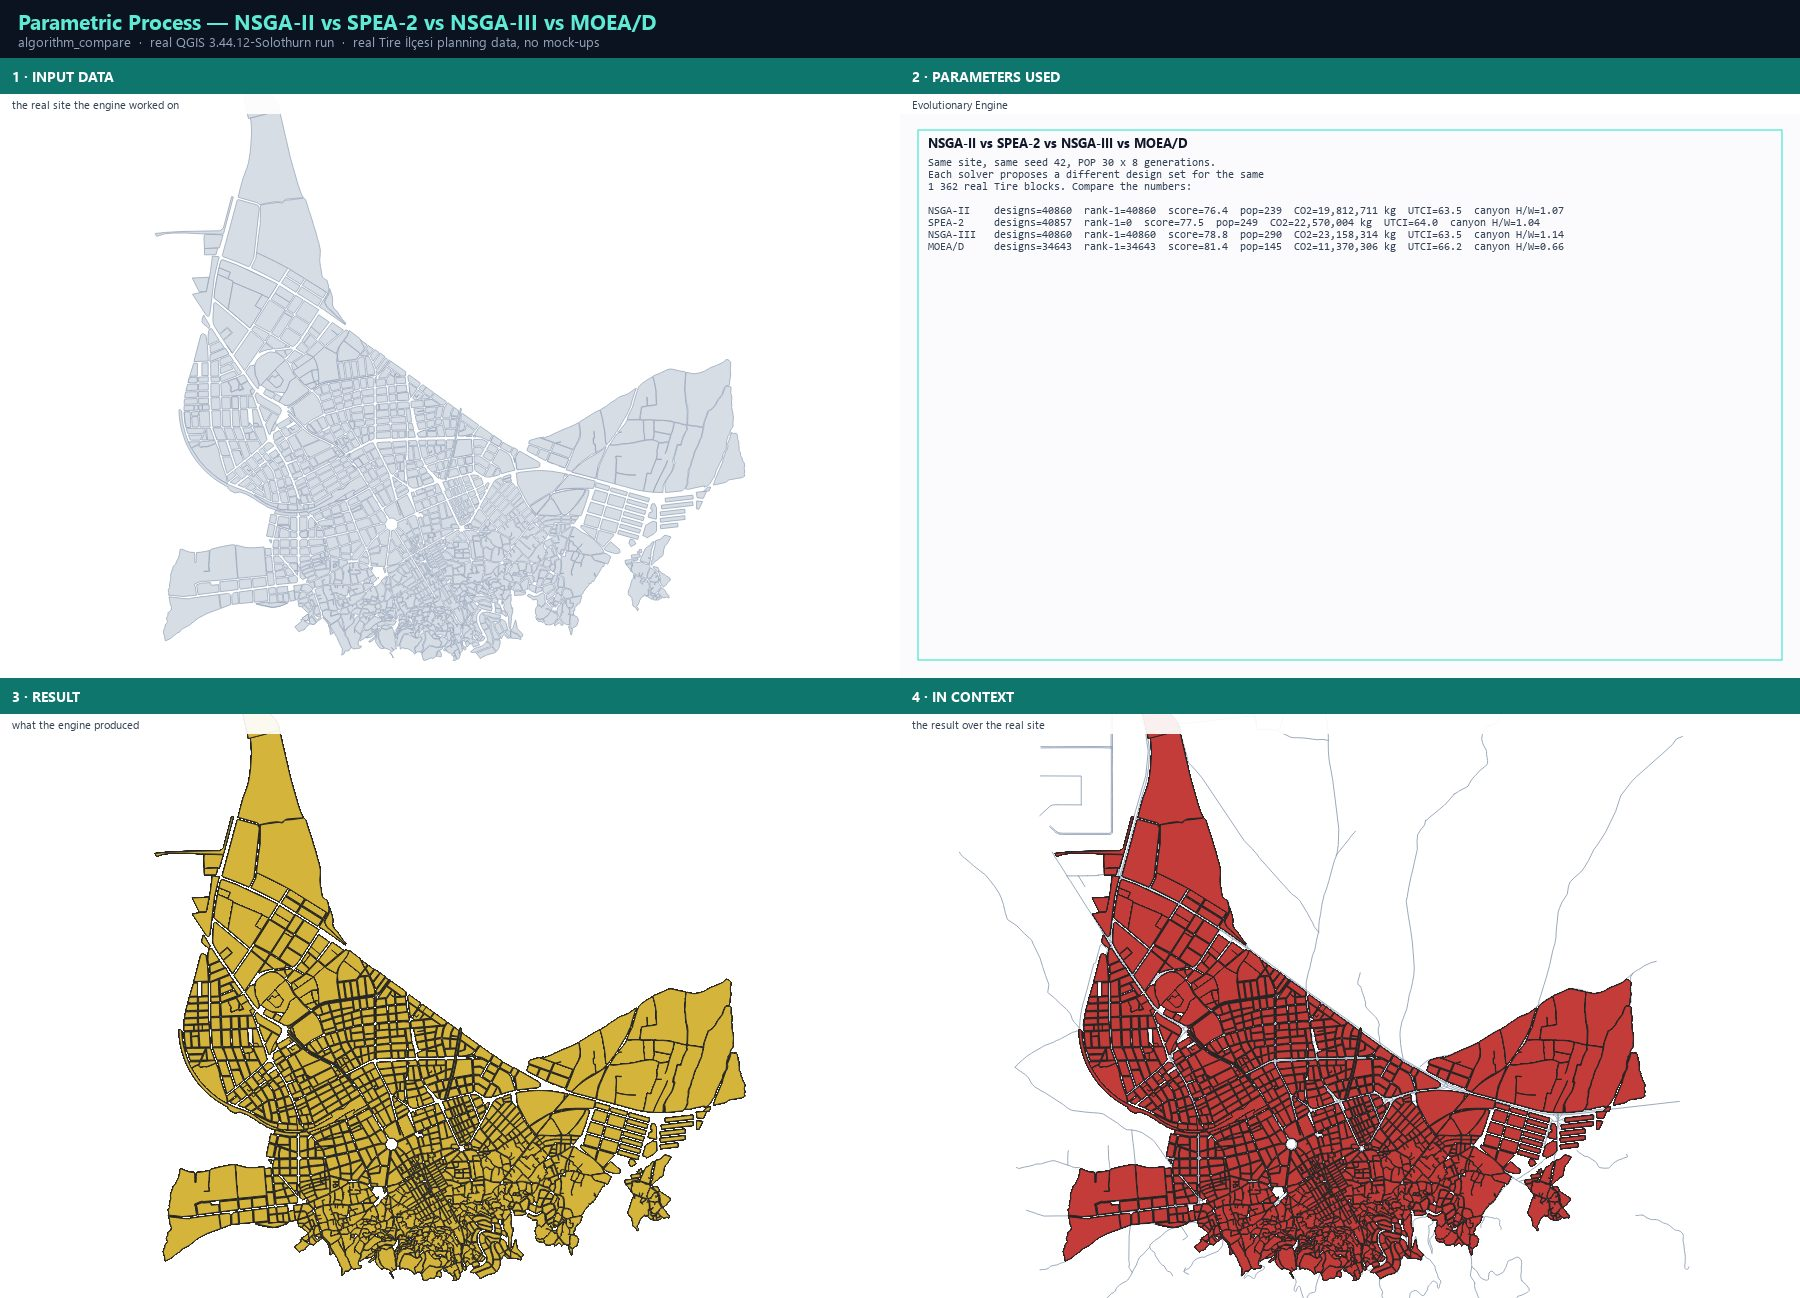
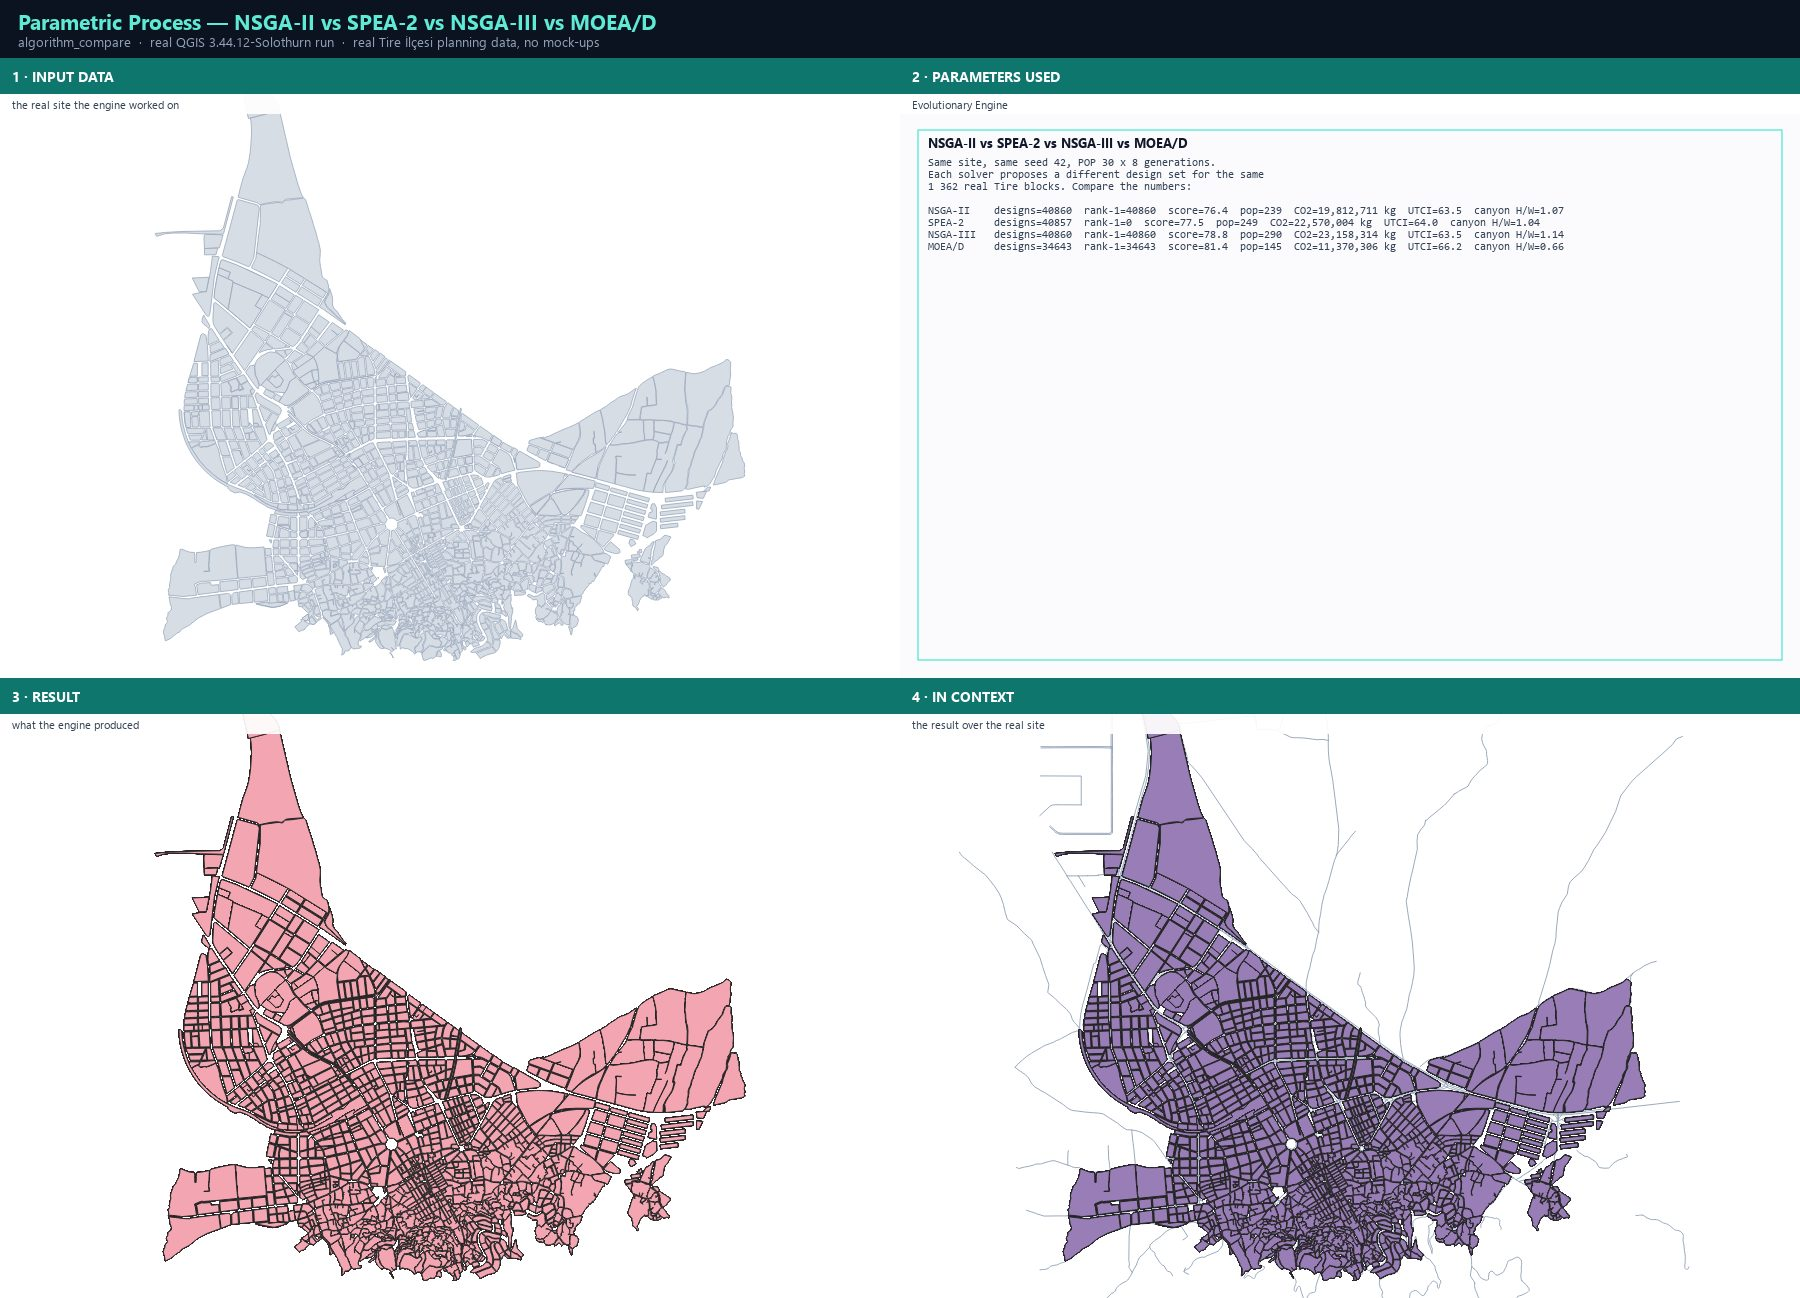
docs: finish the Practical Guide harness
- the launcher now waits for the local server to answer instead of sleeping
  a fixed 45 seconds, and shuts the server down afterwards
- the runner reports the elapsed time per chapter and records it in the
  manifest, so the documented runtimes are measured rather than guessed
- README documents the real cost of each chapter: about half an hour for a
  full run, most of it the two multi-seed experiments
- the reference manual counted six processing algorithms; the plugin ships
  seven

Changed region(s): [[0.5911, 0.5547, 0.9333, 0.9861], [0.0933, 0.5547, 0.4356, 0.9861]]

diff --git a/docs/REFERENCE_MANUAL.html b/docs/REFERENCE_MANUAL.html
@@ -612,7 +612,7 @@ body {
 
 <h1>Parametric Process Studio</h1>
 <p style="font-size:13px;margin:-14px 0 22px;"><a href="https://github.com/YusufEminoglu/parametric_process">GitHub</a> &middot; <a href="https://gitlab.com/yusufeminoglu/parametric_process">GitLab</a></p>
-<p>Academic Reference Manual &mdash; Theoretical foundations, mathematical formulations, parameter specifications, interpretation guidance, and scholarly references for all six processing algorithms. Version 1.0, August 2026.</p>
+<p>Academic Reference Manual &mdash; Theoretical foundations, mathematical formulations, parameter specifications, interpretation guidance, and scholarly references for all seven processing algorithms. Version 1.0, August 2026.</p>
 
 <div style="border:1px solid #0f766e;background:#f0fdfa;border-radius:10px;padding:16px 20px;margin:18px 0 24px;">
   <div style="font-size:11px;letter-spacing:.14em;text-transform:uppercase;font-weight:700;color:#0f766e;margin-bottom:6px;">Practical Guide &mdash; step by step</div>
@@ -639,7 +639,7 @@ body {
 <section id="introduction" class="search-section">
 <h2>Introduction</h2>
 
-<p>Parametric Process Studio is a computational urban design and analysis framework implemented as a QGIS processing plugin. It integrates six interrelated algorithms spanning multi-objective evolutionary optimisation, urban microclimate physics, morphological analytics, procedural shape grammars, inter-building environmental coupling, and a sequential parametric urban design pipeline.</p>
+<p>Parametric Process Studio is a computational urban design and analysis framework implemented as a QGIS processing plugin. It integrates seven interrelated algorithms spanning multi-objective evolutionary optimisation, urban microclimate physics, morphological analytics, procedural shape grammars, inter-building environmental coupling, a sequential parametric urban design pipeline, and an auditable academic study protocol.</p>
 
 <p>The plugin operationalises the <strong>Parametric Performance-based Urban Design (PPUD)</strong> methodology, a framework that bridges urban morphology, building science, and computational optimisation to support evidence-based decision-making in the early stages of urban design. The theoretical backbone draws from evolutionary computation (Deb <em>et al.</em>, 2002; Zitzler <em>et al.</em>, 2001; Zhang &amp; Li, 2007), urban climatology (Oke, 1988; Jendritzky <em>et al.</em>, 2012), building physics (Duffie &amp; Beckman, 2013; Hammond &amp; Jones, 2008), and computational urbanism (Parish &amp; Müller, 2001; Batty, 2008; Akay &amp; Çalışkan, 2025).</p>
 

diff --git a/docs/PRACTICAL_GUIDE/practical_guide_runner.py b/docs/PRACTICAL_GUIDE/practical_guide_runner.py
@@ -853,10 +853,12 @@ def main() -> int:
     manifest = {"generated": "", "qgis_version": qgis.core.Qgis.QGIS_VERSION,
                 "data_notes": data.notes, "modules": {}}
 
+    import time
     for spec in selected:
         mid = spec["id"]
         out_dir = SHOTS / mid
         out_dir.mkdir(parents=True, exist_ok=True)
+        started = time.time()
         try:
             res = spec["fn"](data)
             if res is None:
@@ -875,8 +877,9 @@ def main() -> int:
                                extent=res.get("extent"))
             entry["screenshot"] = str(png.relative_to(HERE)).replace("\\", "/")
             entry["status"] = "ok"
+            entry["seconds"] = round(time.time() - started, 1)
             manifest["modules"][mid] = entry
-            print(f"OK    {mid:<26} → {png.name}", flush=True)
+            print(f"OK    {mid:<26} → {png.name}  ({entry['seconds']}s)", flush=True)
         except Exception as exc:  # noqa: BLE001
             traceback.print_exc()
             manifest["modules"][mid] = {

diff --git a/docs/PRACTICAL_GUIDE/serve_real_data.py b/docs/PRACTICAL_GUIDE/serve_real_data.py
@@ -115,6 +115,10 @@ def main() -> int:
     print(f"REAL_DATA_URL=http://127.0.0.1:{server.port}/index.html", flush=True)
     print(f"features: {geojson.count('\"type\": \"Feature\"')}", flush=True)
 
+    # Record the pid so the launcher can shut the server down cleanly.
+    pid_file = HERE / "serve.pid"
+    pid_file.write_text(str(os.getpid()), encoding="utf-8")
+
     running = True
 
     def stop(_signum, _frame):
@@ -128,6 +132,8 @@ def main() -> int:
             time.sleep(0.2)
     finally:
         server.stop()
+        with suppress(Exception):
+            (HERE / "serve.pid").unlink()
     return 0
 
 

diff --git a/docs/PRACTICAL_GUIDE/README.md b/docs/PRACTICAL_GUIDE/README.md
@@ -66,6 +66,23 @@ run_practical_guide.bat                                  REM everything
 run_practical_guide.bat --module parametric_optimization  REM one chapter
 ```
 
+### Expected runtime (measured on QGIS 3.44 LTR, 1 362 Tire blocks)
+
+| Chapter | Time | Note |
+|---|---|---|
+| `prepare_input`, `urban_physics`, `urban_morphology`, `shape_grammar`, `district_coupling` | < 1 s each | |
+| `ppud_pipeline` | ~7 s | |
+| `studio_dock` | ~2 s | |
+| `parametric_optimization` | ~3 min | population 40 × 12 generations |
+| `algorithm_compare` | ~9 min | four solvers, population 30 × 8 generations |
+| `academic_study` | ~16 min | multi-seed study (2 seeds × population 16 × 4 generations) |
+| browser chapters | ~4 min | Playwright, includes a live NSGA-II run |
+
+A full `--all` run is therefore roughly **half an hour**, most of it the two
+multi-seed experiments. The runner prints the elapsed time per chapter and
+records it in `manifest/screenshots.json`, so a partial run always tells you
+what it cost.
+
 Then rebuild the HTML by hand if you only changed the copy:
 
 ```cmd
